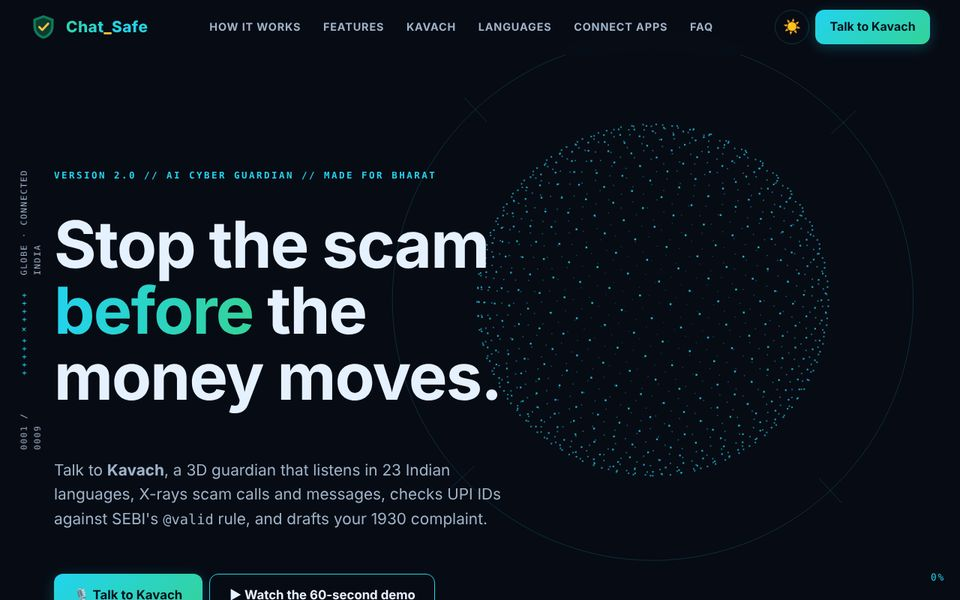
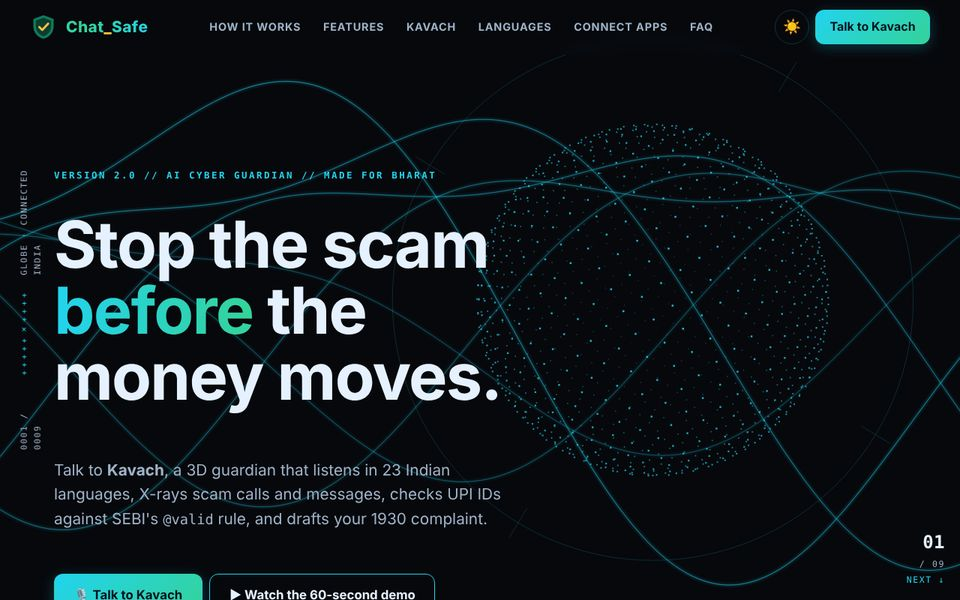
Landing: flowing data ribbons, darker stage, corner section counter
Modelled on aengel.io after viewing it properly: streams of glowing particles
trace curved paths behind the content and react to each section — calm waves,
a disturbed red stream at the attack section, a protective dome at the shield,
ordered lanes at the lock, and an orbit around the focal shape.

Also: near-black stage, counter moved to the bottom-right corner, four stats
fit on one row, lone CTA no longer stretches.

Claude-Session: https://claude.ai/code/session_01RuzSzu5LEbJ2Y1dSCSVP7S

diff --git a/public/morph.js b/public/morph.js
@@ -132,6 +132,70 @@
 
   const smooth = (t) => t * t * (3 - 2 * t);
 
+
+  /**
+   * Flowing light ribbons — streams of glowing particles tracing curved paths,
+   * read here as network data in motion. Each section bends and recolours them:
+   * calm waves for safe traffic, a broken scatter during the attack section,
+   * a protective dome at the shield, tight parallel lanes at the lock.
+   */
+  const RIBBONS = 7;
+  const RIB_POINTS = 110;
+
+  function ribbonPoint(r, t, time, mode, turbulence) {
+    // Base: a long sine sweep across the screen, each ribbon offset in phase.
+    const x = t;
+    const spread = 0.26 + r * 0.035;
+    let y =
+      Math.sin(t * 2.6 + time * 0.35 + r * 0.9) * spread +
+      Math.sin(t * 5.1 - time * 0.22 + r * 2.1) * spread * 0.4;
+
+    if (mode === 'attack') {
+      // Shattered: the stream breaks into jagged, jittering fragments.
+      // Agitated but still flowing — a disturbed stream, not static noise.
+      const n = Math.sin((t * 9 + r * 13) * 12.9898) * 43758.5453;
+      y += (n - Math.floor(n) - 0.5) * 0.16 * turbulence;
+      y += Math.sin(t * 14 + time * 2.4 + r) * 0.05 * turbulence;
+    } else if (mode === 'shield') {
+      // Bends into a protective dome over the centre.
+      const dome = Math.max(0, 1 - Math.abs(t) * 1.15);
+      y = y * (1 - dome * 0.85) - dome * (0.22 + r * 0.03);
+    } else if (mode === 'lock') {
+      // Flattens into tight, ordered lanes.
+      y = y * 0.22 + (r - (RIBBONS - 1) / 2) * 0.085;
+    } else if (mode === 'ring' || mode === 'eye') {
+      // Wraps around the focal object.
+      const a = t * Math.PI + time * 0.12 + r * 0.5;
+      const rad = 0.42 + r * 0.045;
+      return [Math.cos(a) * rad * 1.9, Math.sin(a) * rad];
+    }
+    return [x, y];
+  }
+
+  /** Draw one ribbon as three passes: wide soft glow, mid body, bright core. */
+  function strokeRibbon(ctx, pts, col, alpha) {
+    const passes = [
+      [7, 0.07 * alpha],
+      [2.4, 0.16 * alpha],
+      [0.9, 0.55 * alpha],
+    ];
+    for (const [width, a] of passes) {
+      ctx.strokeStyle = `rgba(${col[0]},${col[1]},${col[2]},${a.toFixed(3)})`;
+      ctx.lineWidth = width;
+      ctx.lineJoin = 'round';
+      ctx.lineCap = 'round';
+      ctx.beginPath();
+      ctx.moveTo(pts[0][0], pts[0][1]);
+      for (let i = 1; i < pts.length - 1; i++) {
+        // Quadratic smoothing through the midpoints keeps the curve silky.
+        const [x1, y1] = pts[i];
+        const [x2, y2] = pts[i + 1];
+        ctx.quadraticCurveTo(x1, y1, (x1 + x2) / 2, (y1 + y2) / 2);
+      }
+      ctx.stroke();
+    }
+  }
+
   /**
    * @param {HTMLCanvasElement} canvas
    * @param {{sections: HTMLElement[], reducedMotion?: boolean, onIndex?: (i: number, f: number) => void}} opts
@@ -203,6 +267,26 @@
       const alphaBase = dark ? 0.85 : 0.75;
 
       ctx.clearRect(0, 0, w, h);
+
+      // --- Flowing data ribbons, behind the focal shape ---
+      const modeA = names[i];
+      const modeB = names[Math.min(names.length - 1, i + 1)];
+      const mode = k < 0.5 ? modeA : modeB;
+      const turbulence = 0.6 + Math.sin(k * Math.PI) * 0.8;
+      const ribScale = Math.min(w, h) * 0.75;
+      const rcx = w * 0.5;
+      const rcy = h * 0.5;
+      const ribAlpha = (dark ? 1 : 0.55) * (mode === 'eye' ? 0.6 : 1);
+      for (let r = 0; r < RIBBONS; r++) {
+        const pts = [];
+        for (let pI = 0; pI < RIB_POINTS; pI++) {
+          const t = (pI / (RIB_POINTS - 1)) * 2 - 1;
+          const [rx, ry] = ribbonPoint(r, t, time + smoothF * 2, mode, turbulence);
+          pts.push([rcx + rx * ribScale * 1.15, rcy + ry * ribScale]);
+        }
+        strokeRibbon(ctx, pts, col, ribAlpha * (0.45 + 0.55 * ((r + 1) / RIBBONS)));
+      }
+
       // Burst outward a little during transitions for a "data scatter" feel.
       const scatter = Math.sin(k * Math.PI) * 0.25;
       for (let p = 0; p < N; p++) {

diff --git a/public/landing.css b/public/landing.css
@@ -11,7 +11,16 @@
   writing-mode: vertical-rl; display: flex; gap: 1.2rem; color: var(--muted); font-size: .7rem; pointer-events: none;
 }
 .hud-rail .ruler { letter-spacing: .3em; color: var(--accent); }
-.hud-progress { position: fixed; right: 1.25rem; bottom: 1.25rem; z-index: 4; font-size: .8rem; color: var(--accent); pointer-events: none; }
+.hud-progress {
+  position: fixed; right: 1.25rem; bottom: 1.1rem; z-index: 4; pointer-events: none; text-align: right;
+  display: grid; gap: .15rem; font-size: .72rem; color: var(--muted);
+}
+.hud-progress b { font-size: 1.5rem; font-weight: 800; color: var(--ink); letter-spacing: .02em; }
+.hud-progress .next { color: var(--accent); }
+
+/* Pure-black stage so one glowing element dominates, as on the reference sites */
+body.landing { background: #07080c; }
+[data-theme="light"] body.landing, html[data-theme="light"] body.landing { background: var(--bg); }
 @media (max-width: 900px) { .hud-rail { display: none; } }
 
 /* Stages */
@@ -33,11 +42,13 @@
 .ticker-track span::before { content: "⚠ "; color: var(--critical); }
 
 /* Statement beats */
-.beat { font-size: clamp(1.6rem, 3.6vw, 2.6rem); line-height: 1.25; font-weight: 700; margin: 0 0 1.5rem; }
-.stats { display: grid; grid-template-columns: repeat(auto-fit, minmax(140px, 1fr)); gap: 1rem; margin: 2rem 0 1rem; }
+.beat { font-size: clamp(1.6rem, 3.6vw, 2.6rem); line-height: 1.25; font-weight: 700; margin: 0 0 1.5rem; max-width: 640px; }
+/* The statement stage runs wider than its text so the four stats sit on one row. */
+.statement { max-width: 900px; }
+.stats { display: grid; grid-template-columns: repeat(auto-fit, minmax(170px, 1fr)); gap: 1rem; margin: 2rem 0 1rem; }
 .stat { border-left: 2px solid var(--accent); padding: .3rem 0 .3rem 1rem; }
-.stat .num { display: block; font: 800 clamp(1.6rem, 3vw, 2.3rem)/1.1 ui-monospace, Consolas, monospace; color: var(--accent); }
-.stat .label { color: var(--muted); font-size: .9rem; }
+.stat .num { display: block; white-space: nowrap; font: 800 clamp(1.2rem, 2.2vw, 1.72rem)/1.15 ui-monospace, Consolas, monospace; color: var(--accent); }
+.stat .label { color: var(--muted); font-size: .82rem; }
 
 /* Steps */
 .steps { list-style: none; padding: 0; margin: 0 0 2rem; display: grid; grid-template-columns: repeat(auto-fit, minmax(240px, 1fr)); gap: 1rem; max-width: 760px; }
@@ -102,3 +113,6 @@
 @keyframes float { 50% { transform: translateY(-8px); } }
 @keyframes glow { 50% { box-shadow: 0 0 30px rgb(34 211 238 / .5); } }
 @media (prefers-reduced-motion: reduce) { .reveal-on-scroll { opacity: 1; transform: none; } }
+
+/* A lone CTA inside a flex-column stage must not stretch across the row */
+.stage > .button { align-self: flex-start; }

diff --git a/public/landing.js b/public/landing.js
@@ -14,15 +14,12 @@
     onIndex: (i) => {
       $('hudIndex').textContent = `${String(i + 1).padStart(4, '0')} / ${String(sections.length).padStart(4, '0')}`;
       $('hudName').textContent = NAMES[sections[i]?.dataset.shape] || '';
+      $('hudNum').textContent = String(i + 1).padStart(2, '0');
+      $('hudTotal').textContent = `/ ${String(sections.length).padStart(2, '0')}`;
+      $('hudNext').textContent = i + 1 < sections.length ? 'NEXT ↓' : 'TOP ↑';
     },
   });
   morph.setDark(isDark());
-  const onScroll = () => {
-    const max = document.documentElement.scrollHeight - window.innerHeight;
-    $('scrollPct').textContent = String(Math.round((window.scrollY / Math.max(1, max)) * 100));
-  };
-  window.addEventListener('scroll', onScroll, { passive: true });
-  onScroll();
 
   /* ---------- Reveal on scroll + count-up stats ---------- */
   const countUp = (el) => {

diff --git a/public/index.html b/public/index.html
@@ -44,7 +44,11 @@
     <span class="ruler">+++++×++++</span>
     <span id="hudName" class="mono">GLOBE</span>
   </div>
-  <div class="hud-progress mono" aria-hidden="true"><span id="scrollPct">0</span>%</div>
+  <div class="hud-progress mono" aria-hidden="true">
+    <b id="hudNum">01</b>
+    <span id="hudTotal">/ 09</span>
+    <span class="next" id="hudNext">NEXT ↓</span>
+  </div>
 
   <main id="main">
     <section class="stage hero" data-shape="globe" aria-labelledby="heroTitle">
